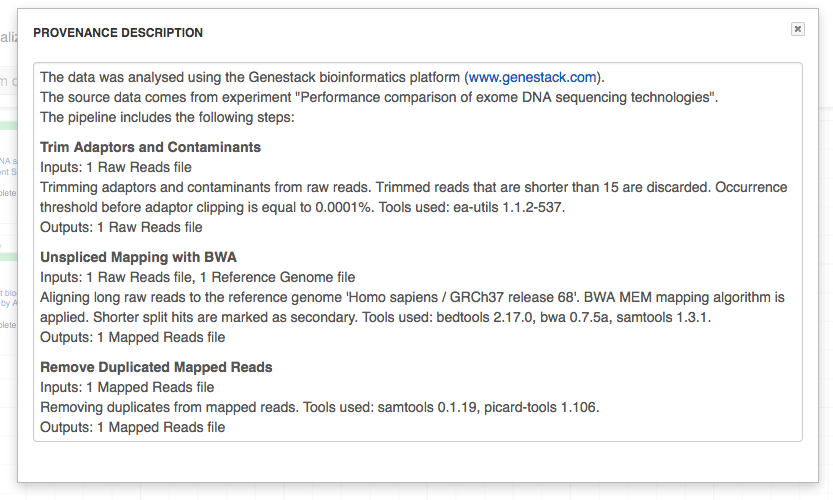
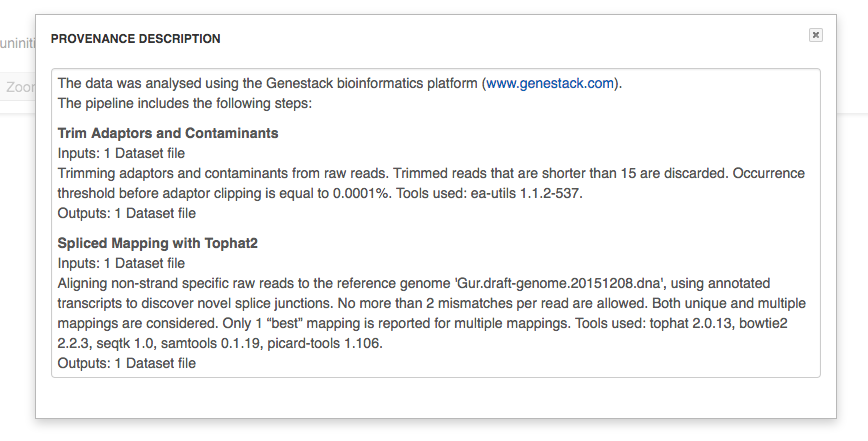
edit *run-DF_include.rst, add dataset provenance, remove/add images

Changed region(s): [[0.0, 0.0295, 0.9676, 0.8844], [0.0, 0.9433, 0.9988, 0.9728], [0.9364, 0.0295, 0.9676, 0.1474]]

diff --git a/source/guide/using-genestack-run-DF_include.rst b/source/guide/using-genestack-run-DF_include.rst
@@ -1,64 +1,51 @@
 Reproducing your work
 ---------------------
 
-Complete reproducibility is one of the core strengths of Genestack. For any
-file in the system, you can view its provenance and then replay the same
-exact analysis on other data files. Select an assay which history you wish
-to explore and open it with **File provenance** application
-located in the Manage section.
+For any datasets in the system, you can learn where the data came from and then replay the same
+exact analysis on other datasets.
 
-.. image:: images/file_provenance.png
+- **File Provenance** application allows you to explore history of data, to learn how
+a given dataset was generated. Click the **New folder with files** button makes a folder
+where all the files used in the pipeline are located.
 
-Besides that, the File provenance application allows you to view the text description of the
-pipeline used to create a given file. Clicking the **View as text** button
-allows you to see what parameters and what tool versions were used at each
-analytical step. You can copy this text and use it in a publication or a report.
+.. image:: images/dataset-provenance.png
+
+View the text description of the pipeline including all the steps.
+Click **View as text** button to see which applications, parameters and tools were used at each
+step of analysis.
 
 .. image:: images/view_as_text.png
    :scale: 75 %
 
-Clicking the **New folder with files** button will create a folder with all the
-files used in this pipeline.
-
-If you want to reuse the same pipeline on different data, you can
-create the data flow identical to the pipeline used to create the original file,
+- If you want to reuse the same pipeline on different data, you can create the data flow identical to the pipeline used to create the original file,
 by selecting the file of interest and choosing **Create new Data Flow** from the
-available "Manage" applications.
-
-.. image:: images/data-flow-editor-1.png
-
-This will open **Data Flow Editor** application — one of applications in our system that are
-used to work on data flows. Data Flow Editor application gives a visual
+available "Manage" applications. This will open **Data Flow Editor** application that gives a visual
 representation of the pipeline and allows you to choose your input files, for example
 sequencing assays, and a reference genome. We would like to highlight here also that
 a range of public reference genomes have already imported from Ensembl and readily
 available on the platform. To add new inputs to the created data flow click choose sources.
-
- .. image:: images/data-flow-editor-2.png
-
 At this stage, no files have been created nor initialized.
 
-.. image:: images/data-flow-editor-3.png
+.. image:: images/data-flow-editor-2.png
 
-When you click on "Run Data Flow" button, this will take you to the **Data Flow
-Runner** application. Click **Run dataflow** button to create all the relevant
-files in an uninitialized state.
+Click **Run Dataflow** button to continue, it will take you to the **Data Flow
+Runner** application.
 
-.. image:: images/data-flow-runner-1.png
 
+- **Data Flow Runner** application allows you to run the pipeline.
+Click **Run dataflow** button to create all the relevant files in an uninitialized state.
 Separate file is created for each individual input file on every step of analysis.
 You can find them in separate folder in the "Created files" folder.
 
-.. image:: images/data-flow-runner-2.png
+.. image:: images/data-flow-runner-1.png
 
 When the files are created, you will be suggested to either start initialization right away
-or delay it till later.
+or delay it till later. You can check and change parameters if needed only before computations
+started. To do so, click application name in the corresponding node of the data flow. However
+just as initialization process started, any changes of files are forbidden.
+
 
 .. image:: images/data-flow-runner-3.png
-
-Remember, that you can check and change parameters if needed only before computations started.
-To do so, click application name in the corresponding node of the data flow.
-However just as initialization process started, any changes of files are forbidden.
 
 Finally, whether you decide to start the computation or not, you will be suggested with
 a list of matching application to explore results or continue analysis.

diff --git a/source/guide/using-genestack-public-data_include.rst b/source/guide/using-genestack-public-data_include.rst
@@ -98,3 +98,4 @@ There are two ways of making subsets: select samples you want to analyse using c
 or you can open **metainfo summary** and specify metainfo values that will be used as a rule to create
 a subset and filter out all non-matching files.
 
+.. image:: images/metainfo-summary.png
